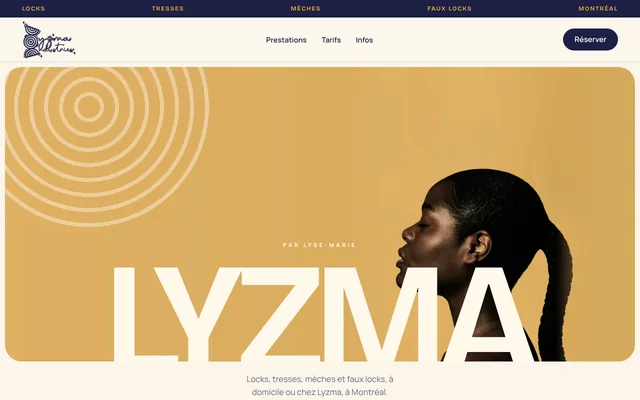
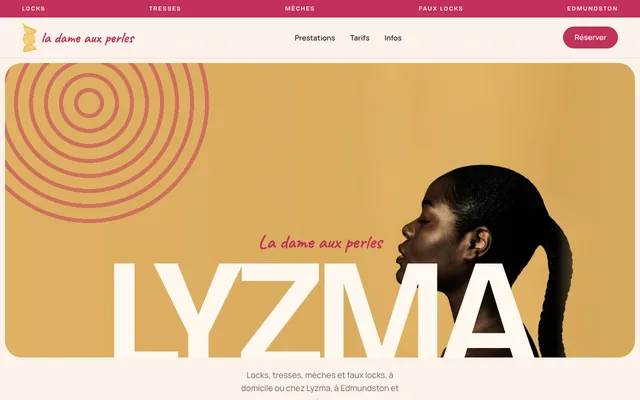
La dame aux perles (Lyzma) : nouveau nom, nouvelle vignette, Edmundston

diff --git a/concepts/jeere/admin/admin.js b/concepts/jeere/admin/admin.js
@@ -1109,7 +1109,7 @@
     { name: 'The Ivory Sukundu', meta: 'theivorysukundu.com · commandes, produits, codes', ext: true, thumb: '../studio/sites/thumbs/live--the-ivory-sukundu.webp' },
     { name: 'Sonia Luxury Hair', slug: 'sonia-luxury-hair', meta: 'Son site · kreeative.xyz/concepts/sonia-luxury-hair', thumb: '../studio/sites/thumbs/concepts--sonia-luxury-hair.webp' },
     { name: 'Joshua Cooker', slug: 'joshua-cooker', meta: 'Son site · kreeative.xyz/concepts/joshua-cooker', thumb: '../studio/sites/thumbs/concepts--joshua-cooker.webp' },
-    { name: 'Lyzma', slug: 'lyzma', meta: 'Coiffure afro, rendez-vous · kreeative.xyz/concepts/lyzma', thumb: '../studio/sites/thumbs/concepts--lyzma.webp' },
+    { name: 'La dame aux perles', slug: 'lyzma', meta: 'Coiffure, rendez-vous · kreeative.xyz/concepts/lyzma', thumb: '../studio/sites/thumbs/concepts--lyzma.webp' },
     { name: 'ANSE', slug: 'anse', meta: 'Boutique de démonstration · jehre.com/modeles/anse', thumb: '../studio/sites/thumbs/concepts--anse.webp' },
     { name: 'SÈVE', slug: 'seve', meta: 'Boutique de démonstration · jehre.com/modeles/seve', thumb: '../studio/sites/thumbs/concepts--seve.webp' },
     { name: 'SOYEUSE', slug: 'soyeuse', meta: 'Boutique de démonstration · jehre.com/modeles/soyeuse', thumb: '../studio/sites/thumbs/concepts--soyeuse.webp' },
